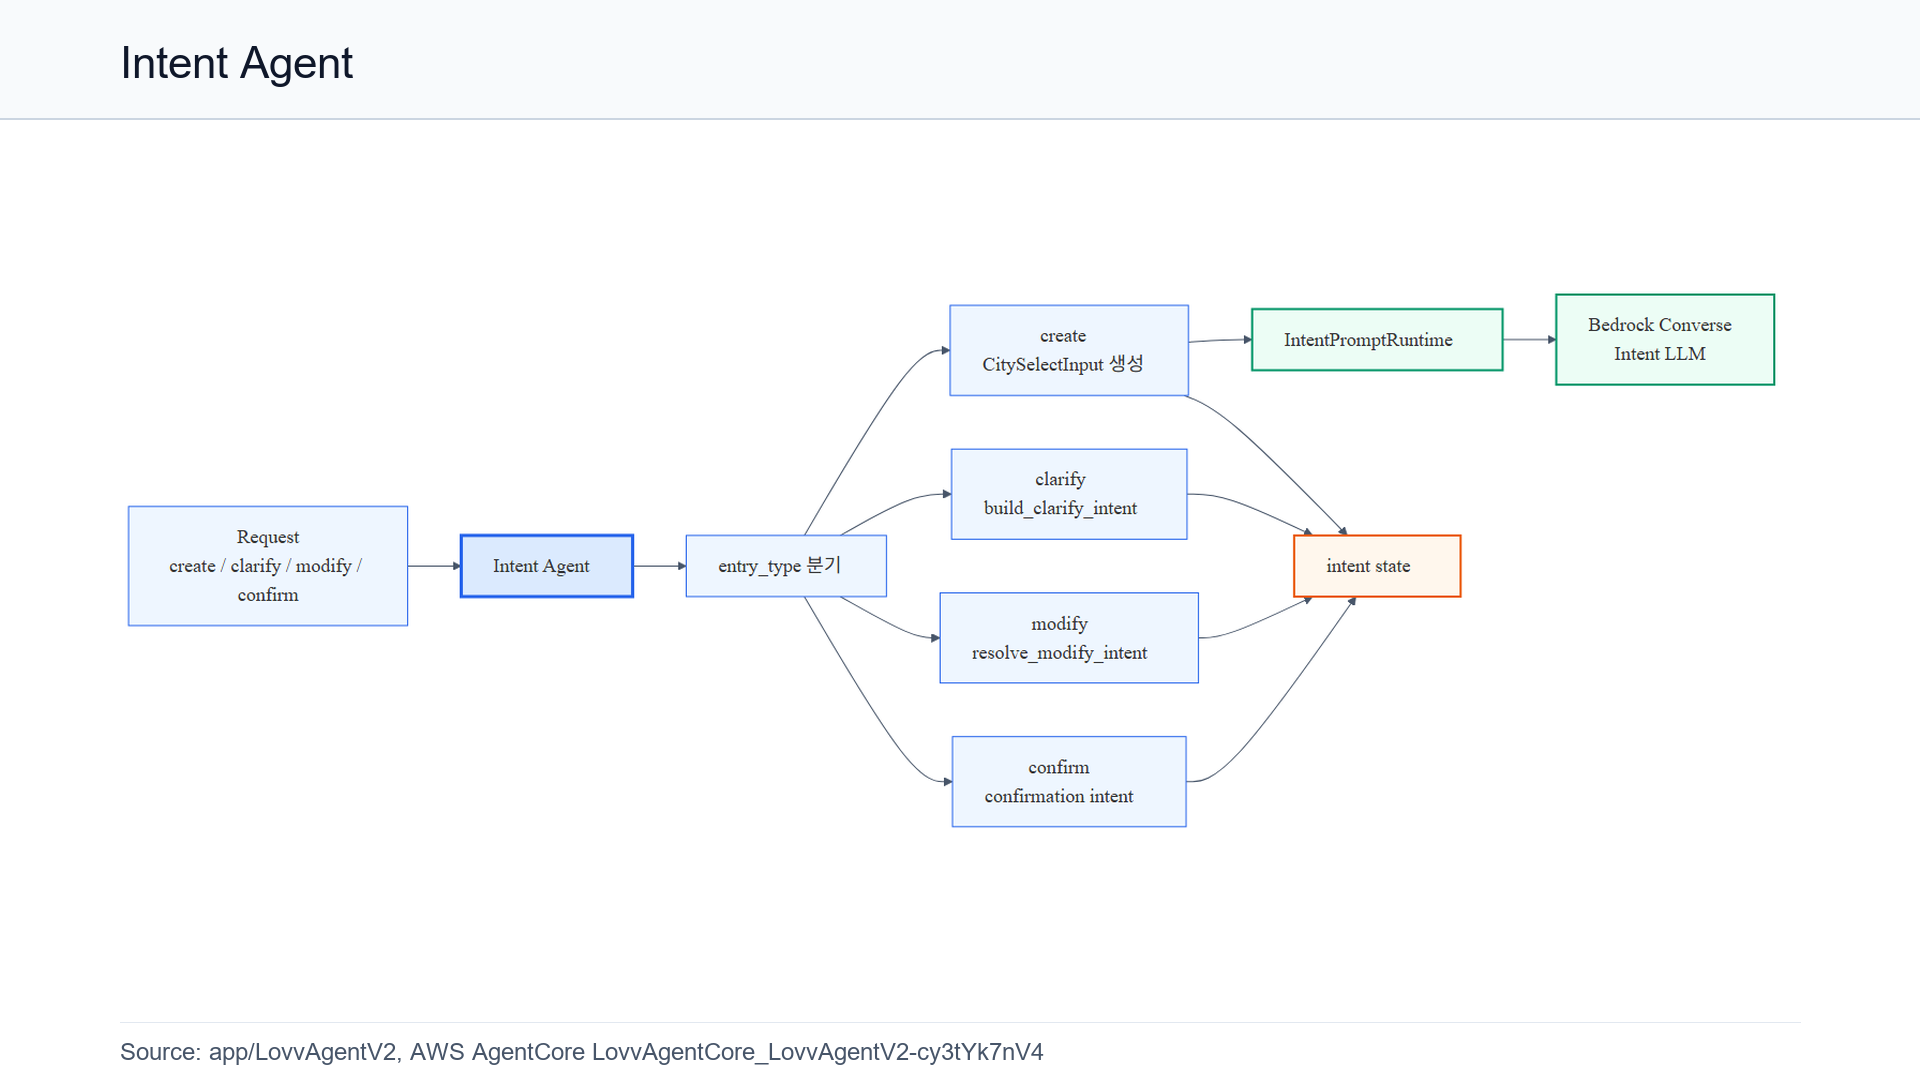
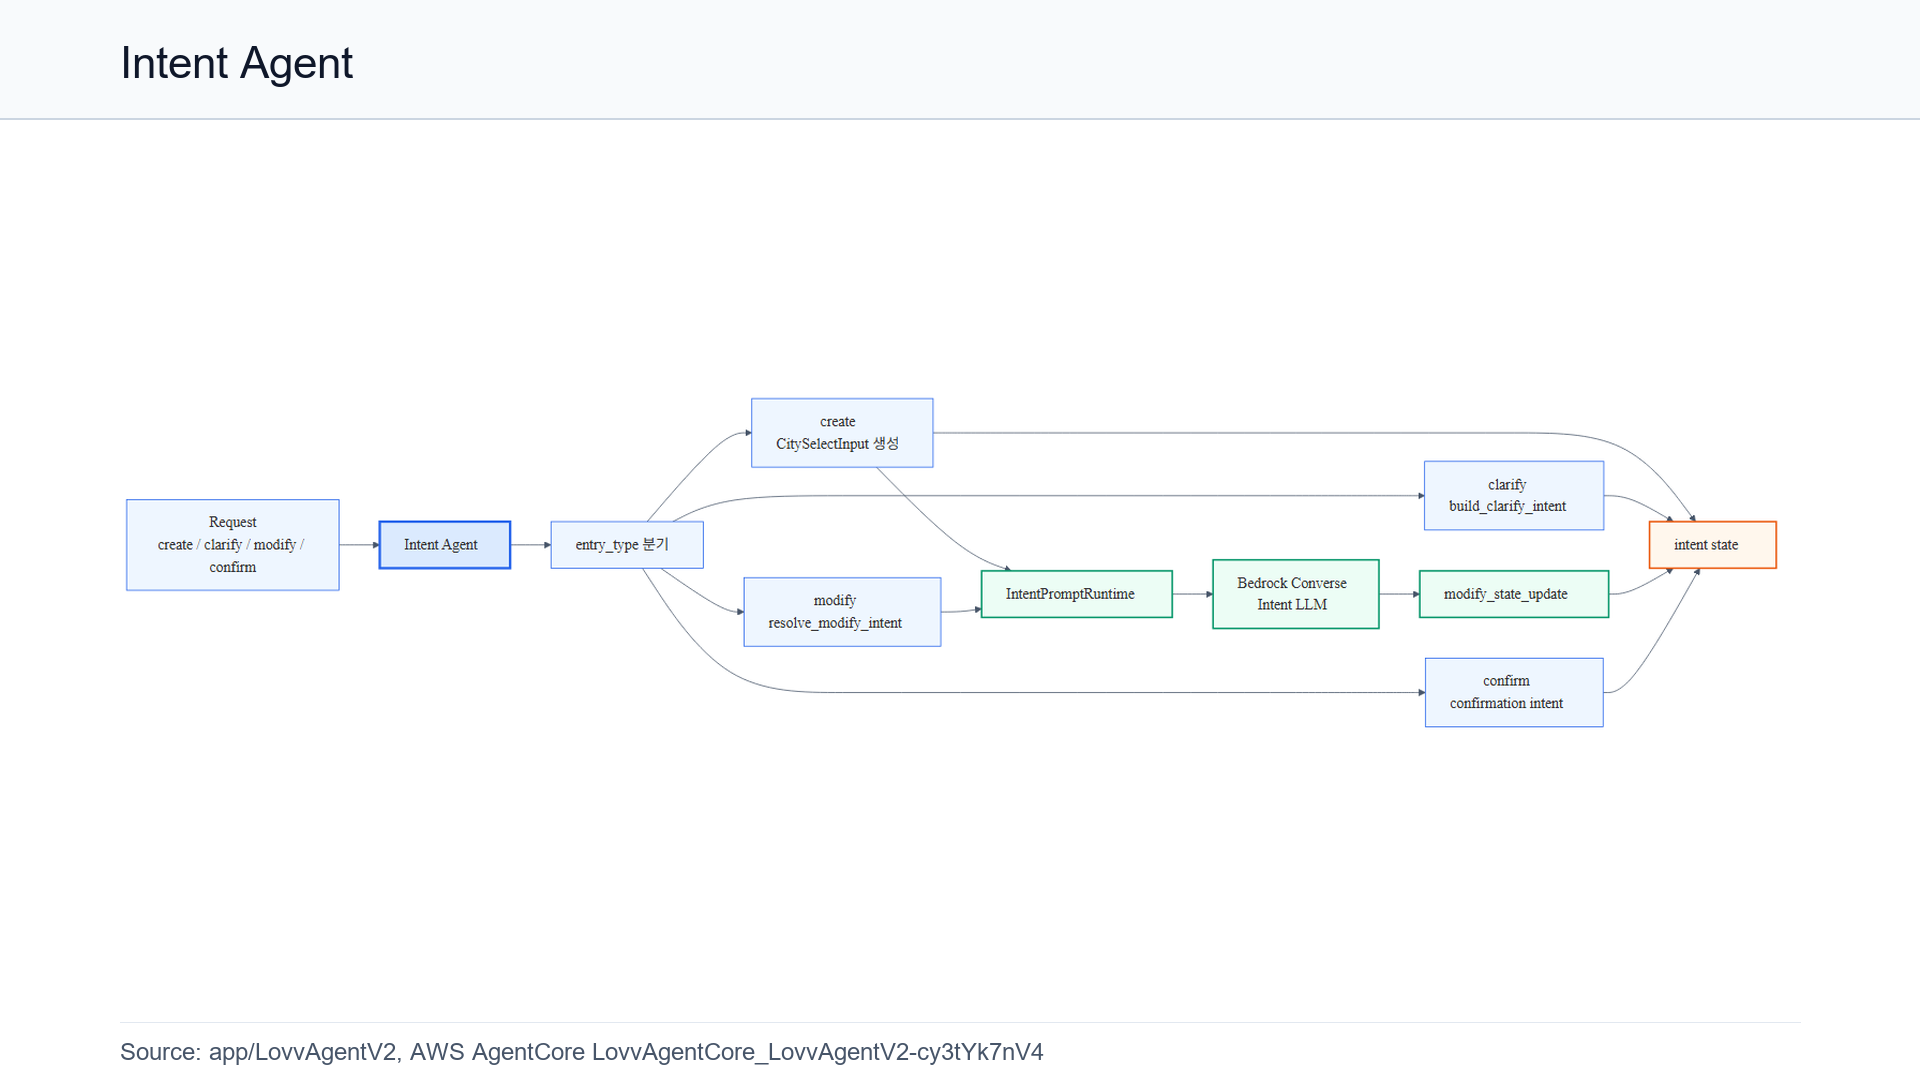
docs(v2-architecture): show modify intent LLM assist
Updates the Intent Agent diagrams to show resolve_modify_intent using IntentPromptRuntime and Bedrock Converse before modify_state_update. Regenerates the rendered Intent Agent PNG/SVG and PPT-ready 16:9 image to address the PR review request.

diff --git a/docs/reports/v2/V2_AGENT_STRUCTURE_MERMAID_20260708.md b/docs/reports/v2/V2_AGENT_STRUCTURE_MERMAID_20260708.md
@@ -140,20 +140,22 @@ flowchart TD
 flowchart TD
   In["state.request + 기존 state.intent"] --> EntryType{"entry_type(request)"}
   EntryType -->|"clarify + create fields 없음"| Clarify["build_clarify_intent"]
-  EntryType -->|"modify"| Modify["resolve_modify_intent\nmodify_state_update"]
+  EntryType -->|"modify"| Modify["resolve_modify_intent"]
   EntryType -->|"confirm"| Confirm["confirm intent\nthread/recommendation/revision"]
   EntryType -->|"create 또는 clarify create"| Create["fresh create"]
 
   Create --> Prompt{"기존 city_select_input 있음?"}
   Prompt -->|"없음"| PromptRuntime["IntentPromptRuntime\nBedrock Converse 가능"]
   Prompt -->|"있음"| Reuse["기존 city_select_input 재사용"]
+  Modify --> PromptRuntime
+  PromptRuntime --> ModifyUpdate["modify_state_update"]
   PromptRuntime --> Parse["CitySelectInput.from_mapping"]
   Reuse --> Parse
   Parse --> Normalize["destination identity 보강\nquery/theme 정규화\nunsupported region clarification"]
   Normalize --> Reset["fresh create면 festival_gate/city_select/planner/response/routing 초기화"]
 
   Clarify --> Out["intent update"]
-  Modify --> Out
+  ModifyUpdate --> Out
   Confirm --> Out
   Reset --> Out
 ```

diff --git a/docs/reports/v2/V2_AGENT_READABLE_ARCHITECTURE_MERMAID_20260708.md b/docs/reports/v2/V2_AGENT_READABLE_ARCHITECTURE_MERMAID_20260708.md
@@ -85,7 +85,7 @@ flowchart TD
 ```mermaid
 flowchart LR
   subgraph Input["Input Layer"]
-    Intent["Intent\nentry_type 판별\ncity_select_input 생성\nmodify_intent 생성"]
+    Intent["Intent\nentry_type 판별\ncity_select_input 생성\nLLM 보조 modify_intent 생성"]
     Profile["Profile\nsaved_trip_count\ntheme_weights\nprofile_update"]
   end
 

diff --git a/docs/reports/v2/V2_AGENT_SUPERVISOR_TOOL_GRAPH_MERMAID_20260708.md b/docs/reports/v2/V2_AGENT_SUPERVISOR_TOOL_GRAPH_MERMAID_20260708.md
@@ -81,6 +81,7 @@ flowchart LR
   end
 
   Intent --> IntentRuntime --> BedrockLLM
+  BedrockLLM -. "create extraction\nmodify intent assist" .-> Intent
 
   Profile --> ProfileDDB
   Profile -. "saved itinerary evidence" .-> RDS